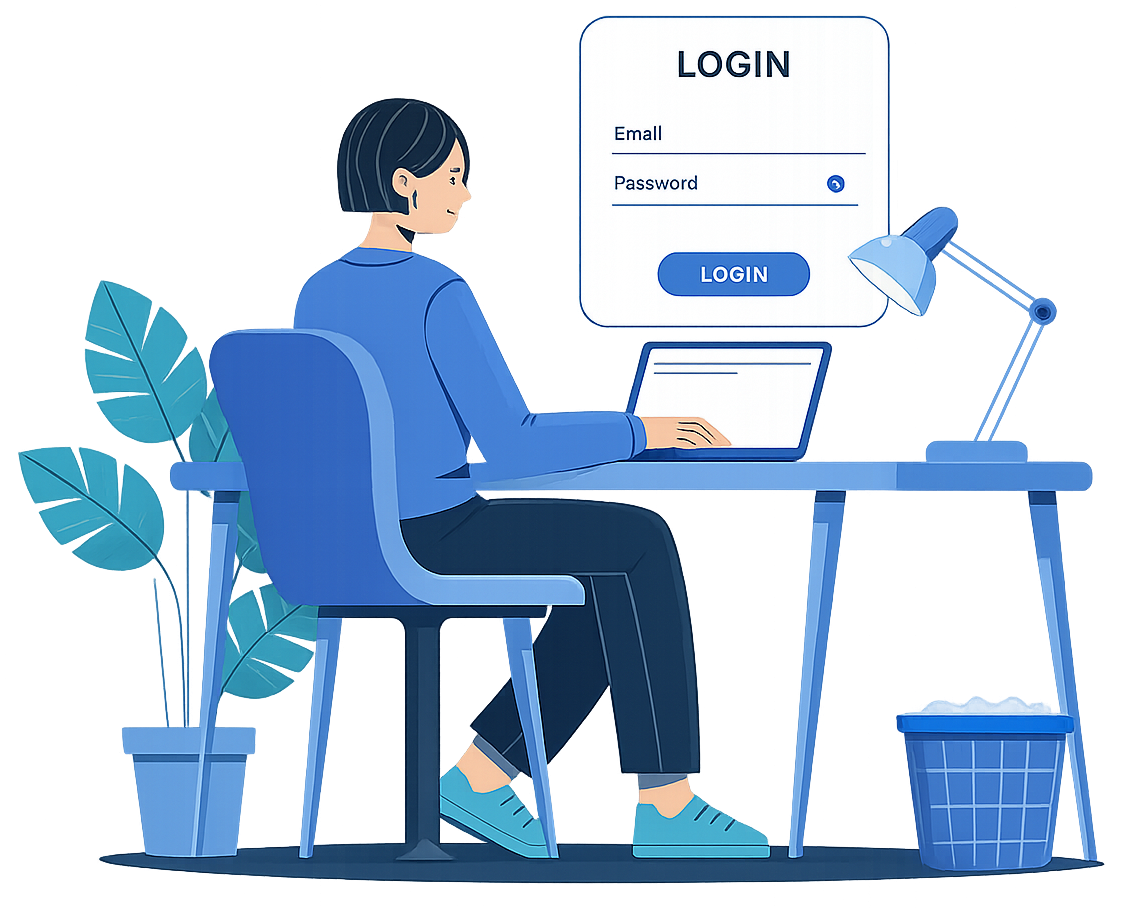
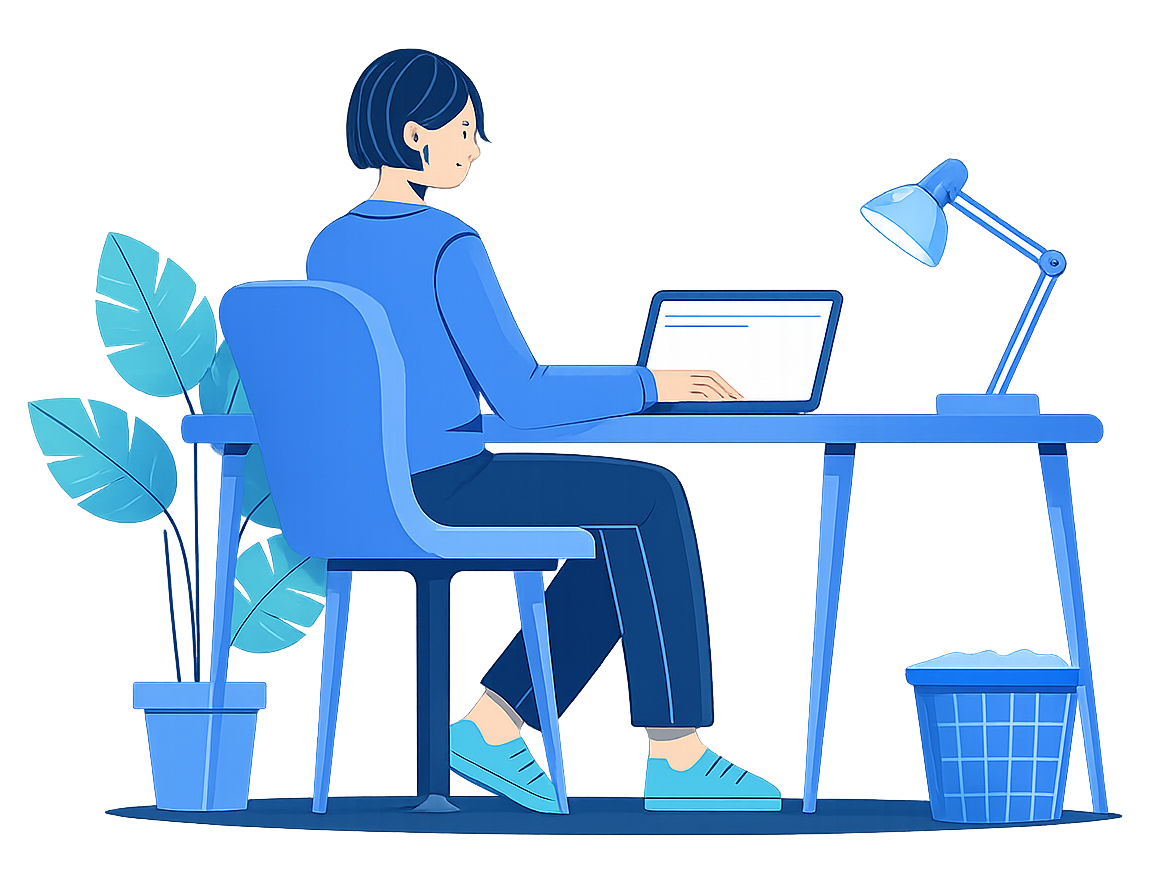
2nd commit

diff --git a/lib/Views/Menu/Ui/Stock/Ui/OrderScreen/NewPurchase/expense_section.dart b/lib/Views/Menu/Ui/Stock/Ui/OrderScreen/NewPurchase/expense_section.dart
@@ -48,29 +48,31 @@ class _ExpensesDialogContent extends StatelessWidget {
       title: tr.manageExpenses,
       icon: Icons.outbond_outlined,
       isActionTrue: false,
-      padding: EdgeInsets.all(10),
-      width: MediaQuery.of(context).size.width * .6,
-      height: MediaQuery.of(context).size.width * .8,
+      padding: EdgeInsets.all(15),
+      width: MediaQuery.of(context).size.width * .7,
       child: Column(
         mainAxisSize: MainAxisSize.min,
         children: [
           // Header with Add Button
-          Row(
-            mainAxisAlignment: MainAxisAlignment.spaceBetween,
-            children: [
-              Text(
-                "${tr.expenses} (${payments.length})",
-                style: const TextStyle(fontSize: 16, fontWeight: FontWeight.bold),
-              ),
-              ZOutlineButton(
-                onPressed: () {
-                  context.read<PurchaseInvoiceBloc>().add(const AddPaymentEvent(isExpense: true));
-                },
-                icon: Icons.add,
-                isActive: true,
-                label: Text(tr.addItem),
-              ),
-            ],
+          Padding(
+            padding: const EdgeInsets.symmetric(horizontal: 12.0,vertical: 5),
+            child: Row(
+              mainAxisAlignment: MainAxisAlignment.spaceBetween,
+              children: [
+                Text(
+                  "${tr.expenses} (${payments.length})",
+                  style: const TextStyle(fontSize: 16, fontWeight: FontWeight.bold),
+                ),
+                ZOutlineButton(
+                  onPressed: () {
+                    context.read<PurchaseInvoiceBloc>().add(const AddPaymentEvent(isExpense: true));
+                  },
+                  icon: Icons.add,
+                  isActive: true,
+                  label: Text(tr.addItem),
+                ),
+              ],
+            ),
           ),
           const SizedBox(height: 16),
 
@@ -314,7 +316,7 @@ class _ExpenseRowState extends State<_ExpenseRow> {
 
             /// Narration
             Expanded(
-              flex: 2,
+              flex: 4,
               child: TextField(
                 controller: _narrationController,
                 decoration: InputDecoration(

diff --git a/lib/Views/Auth/Ui/login.dart b/lib/Views/Auth/Ui/login.dart
@@ -519,7 +519,6 @@ class _DesktopState extends State<_Desktop> {
   Widget build(BuildContext context) {
     final tr = AppLocalizations.of(context)!;
     return Scaffold(
-      backgroundColor: Theme.of(context).colorScheme.surface,
       body: BlocListener<AuthBloc, AuthState>(
         listener: (context, state) {
           if (state is AuthenticatedState) {